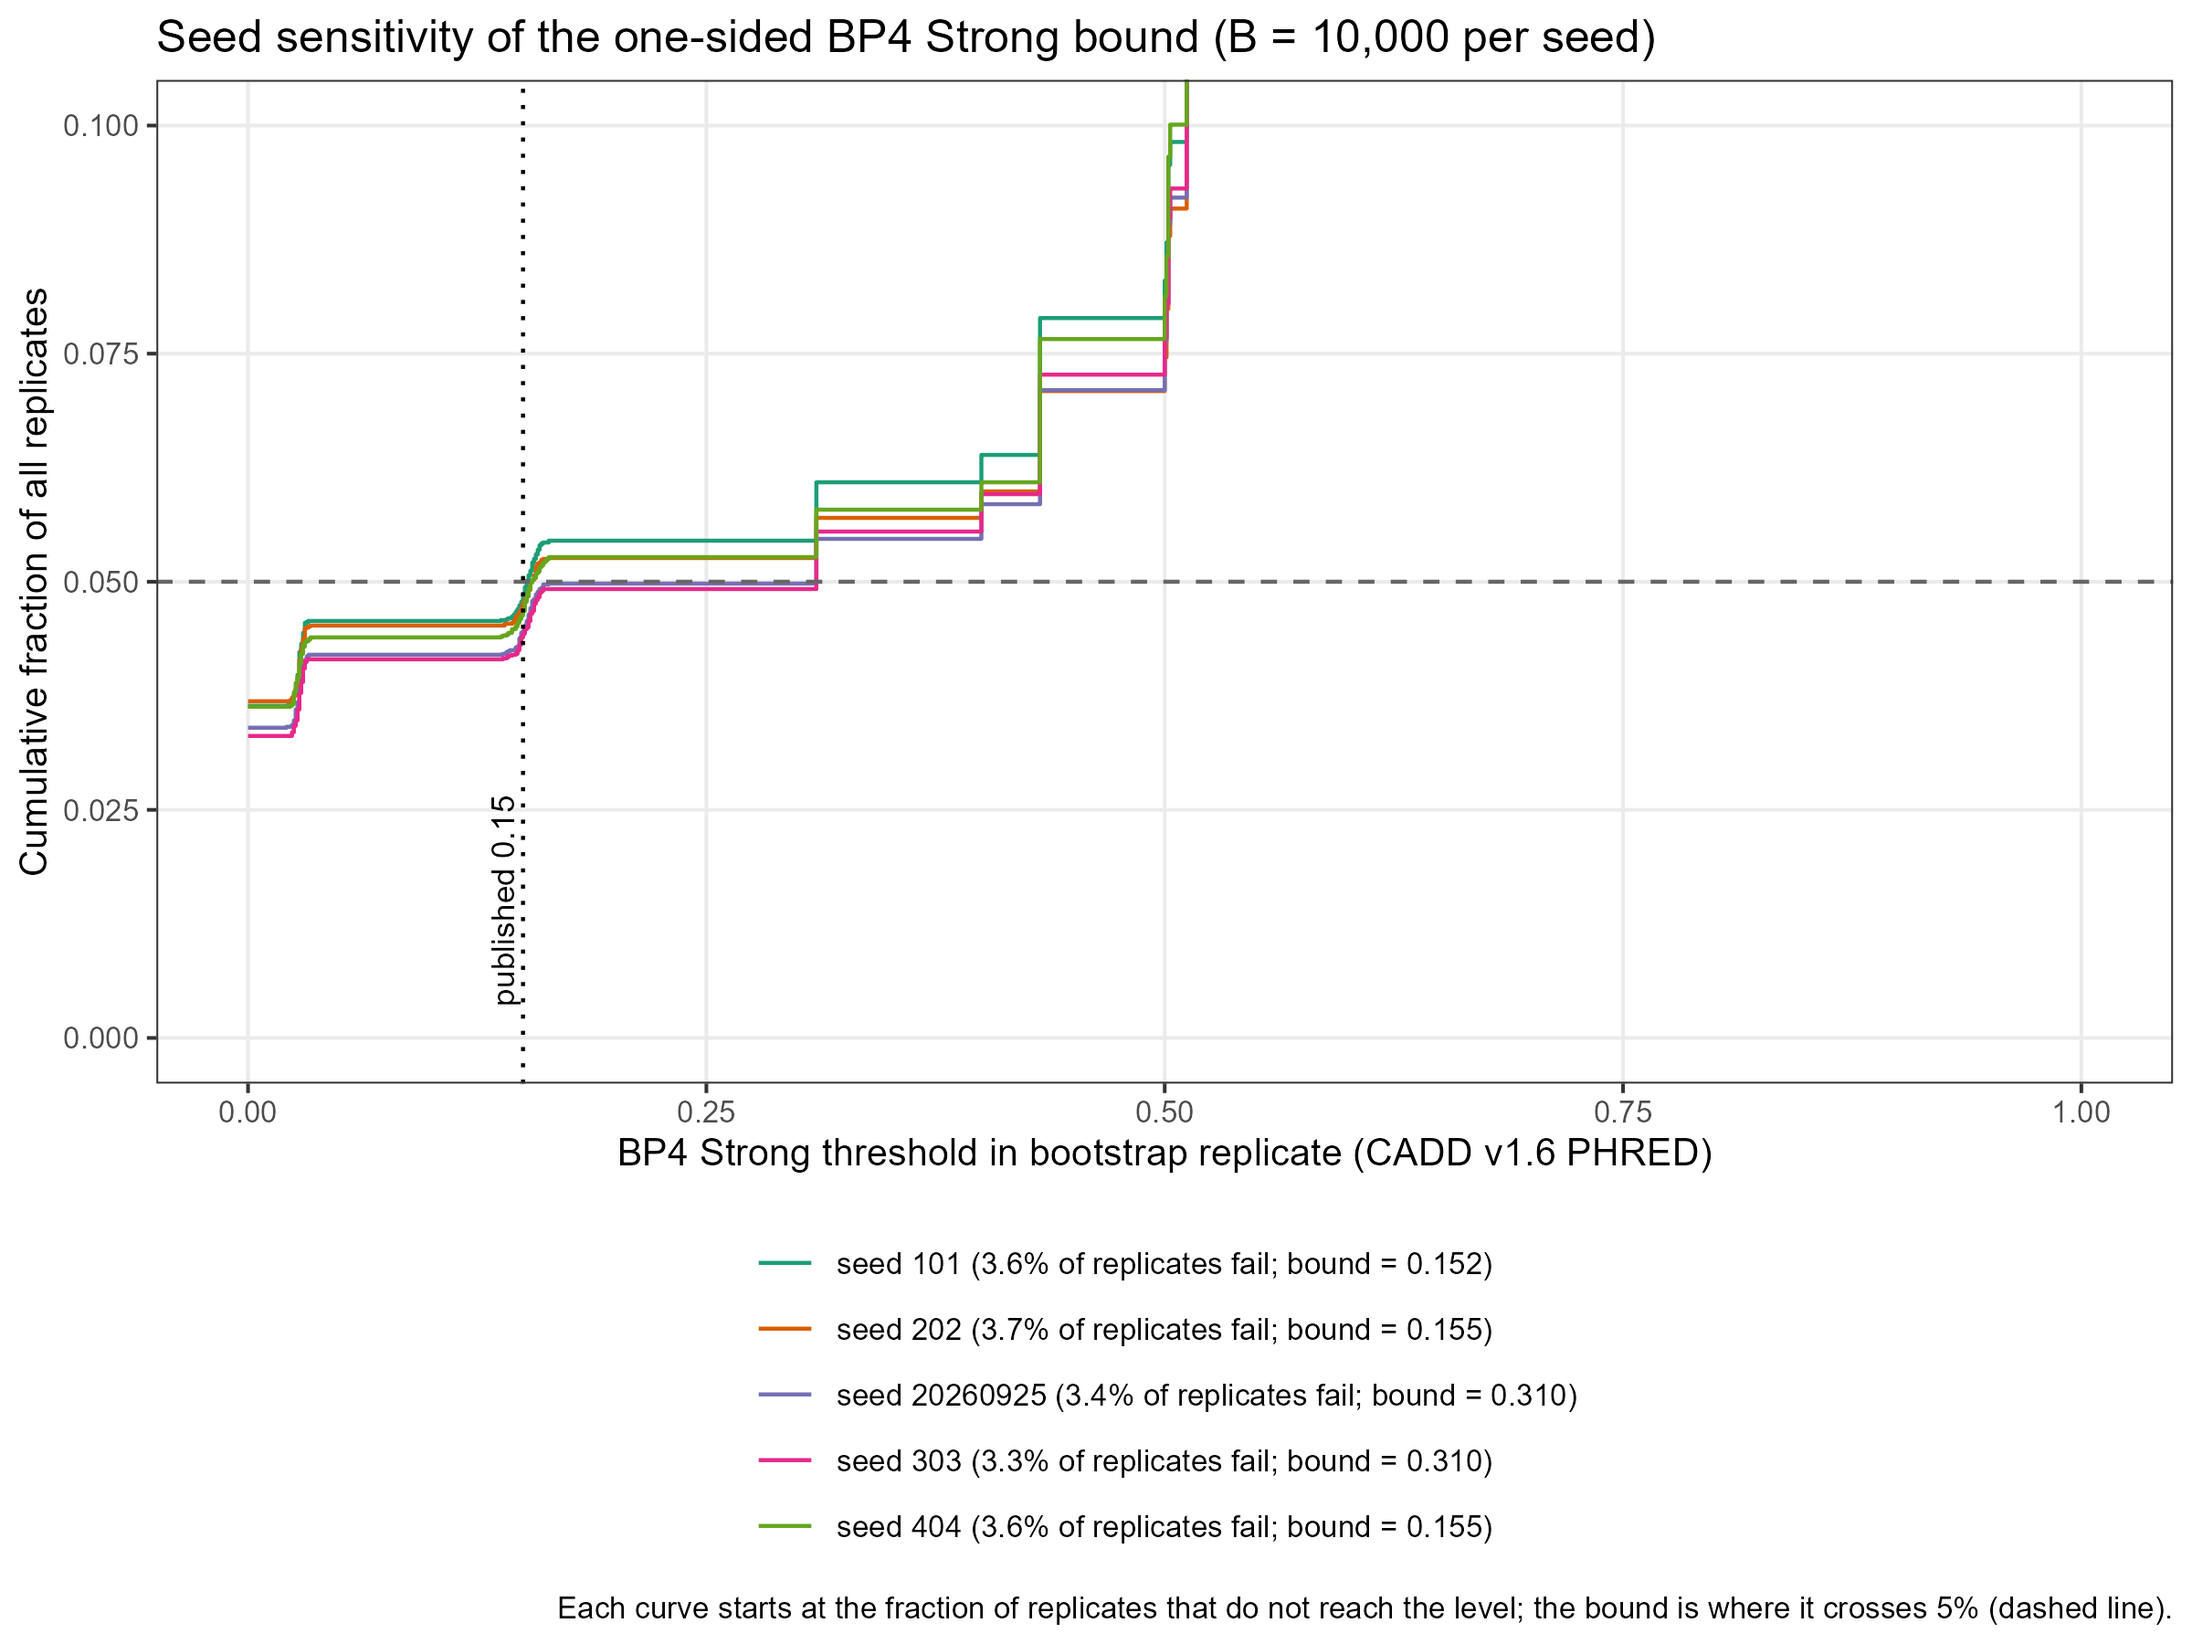
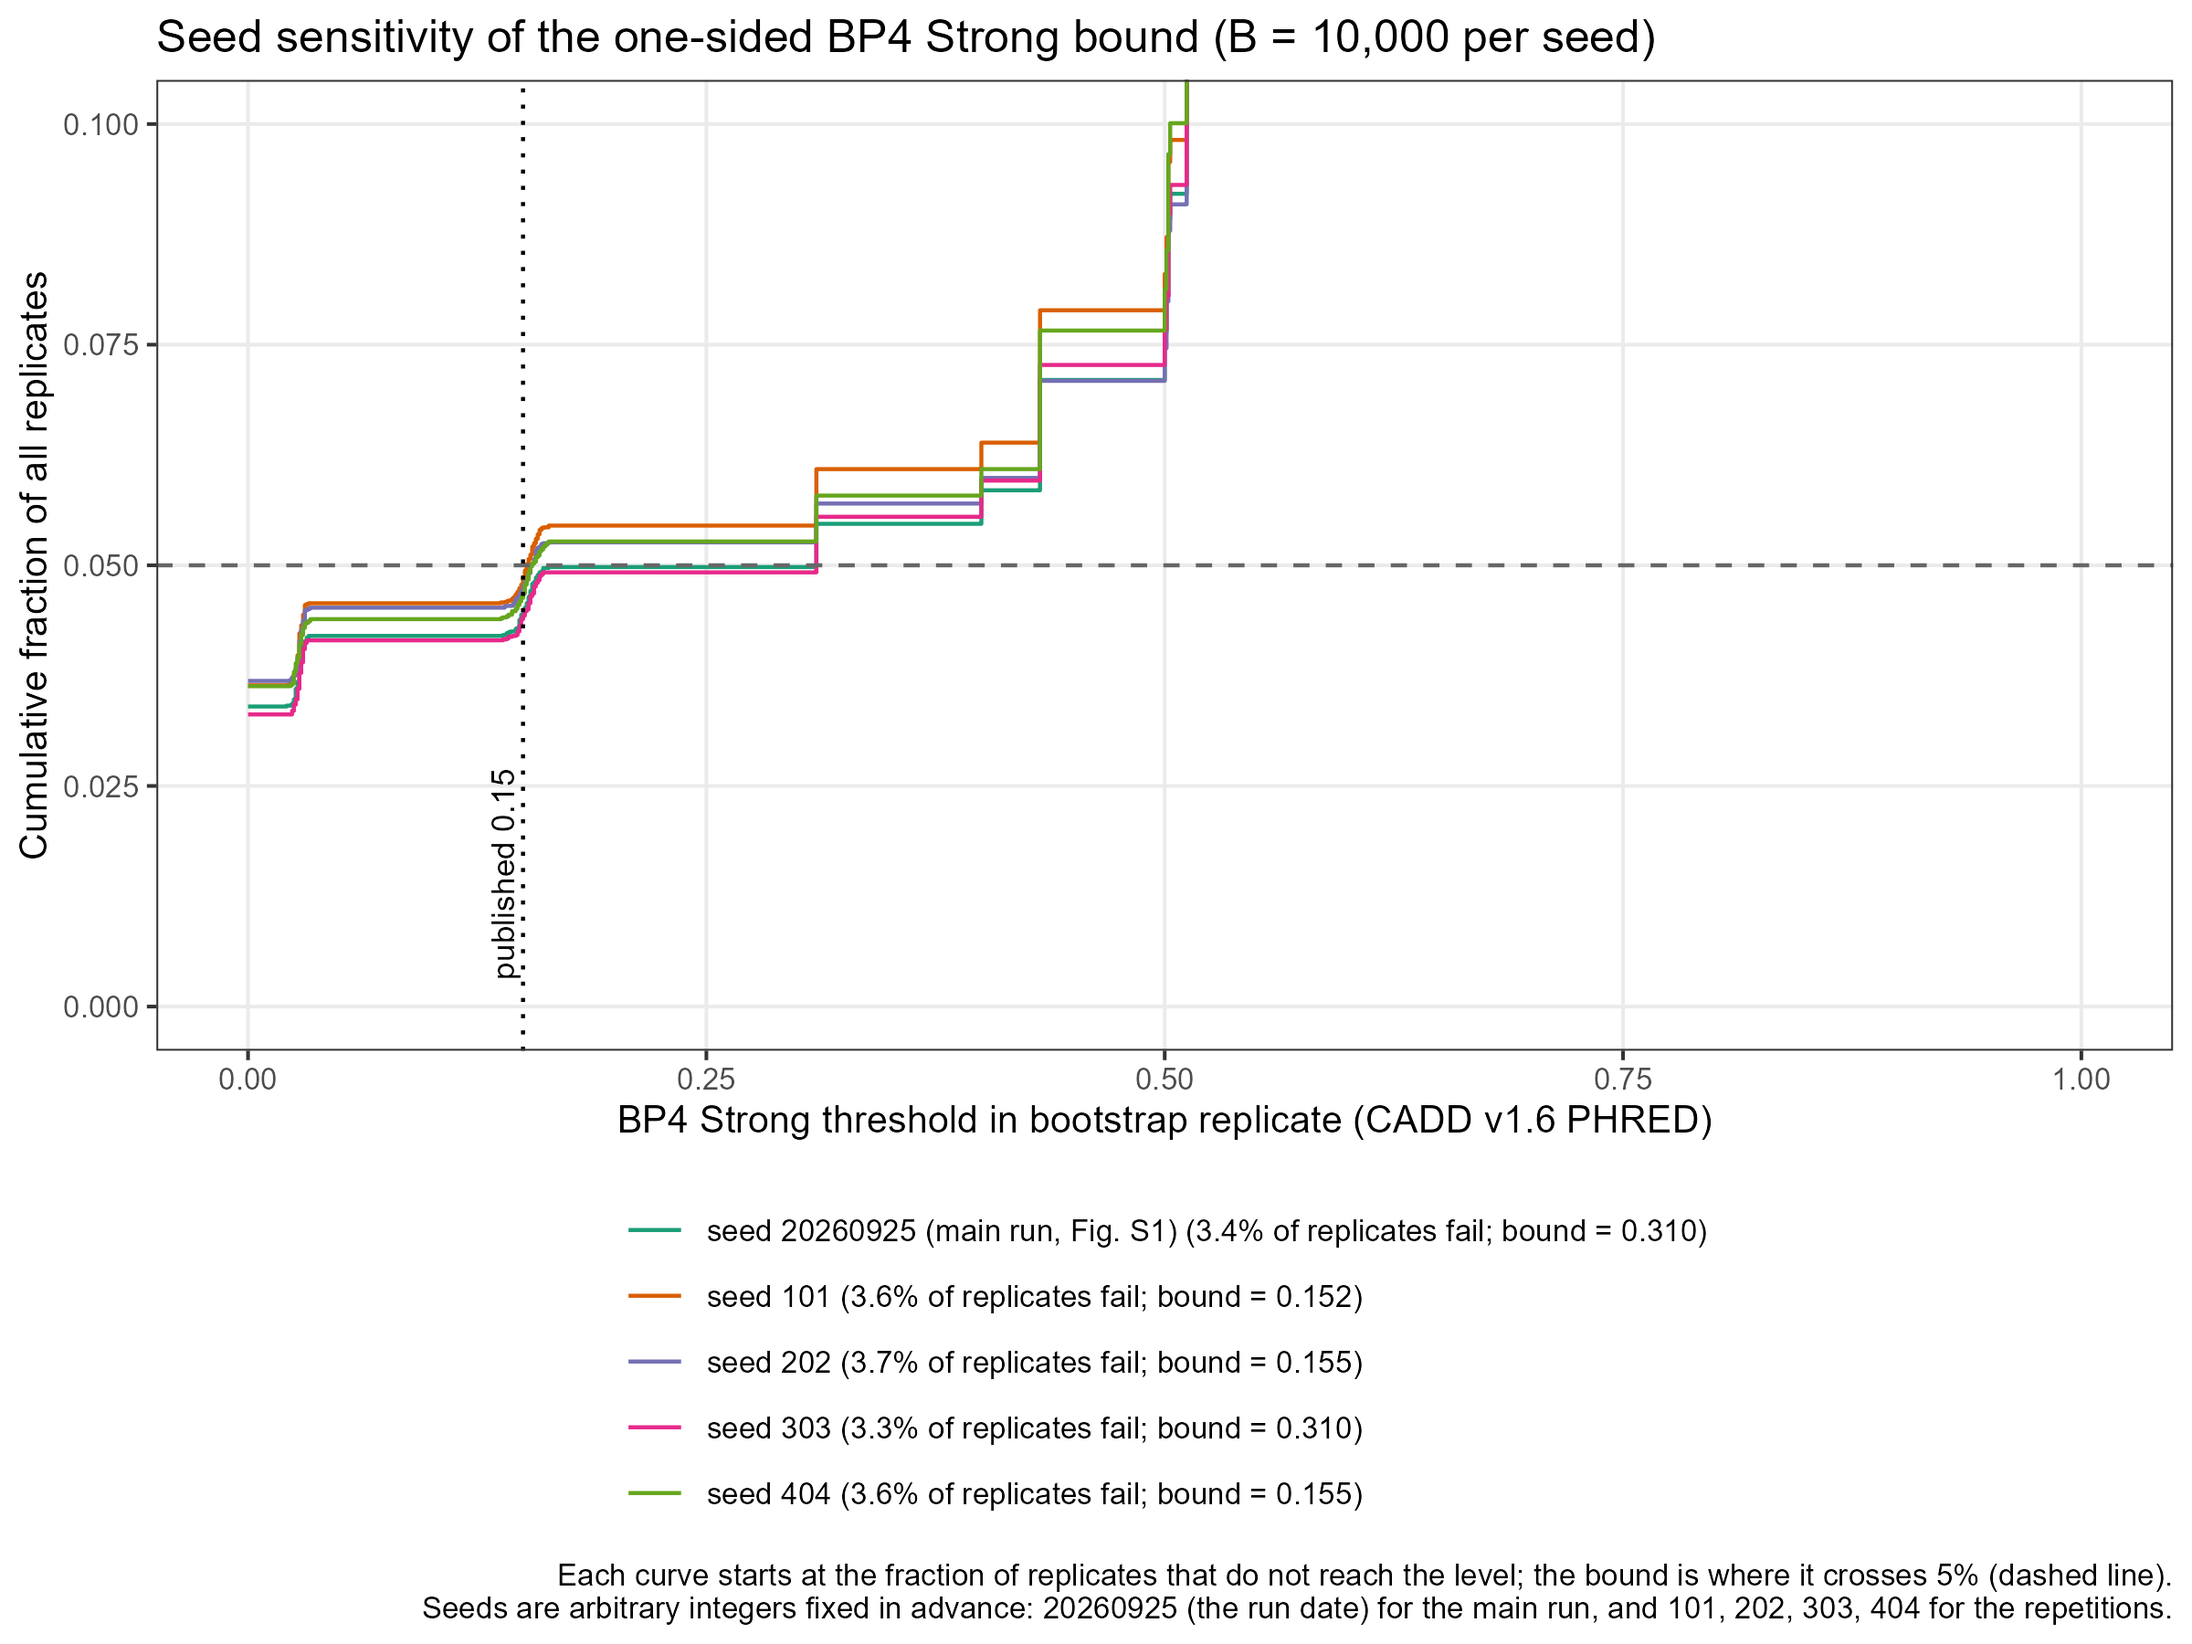
Fig S2: main-run seed labelled and listed first; seeds explained in caption and METHODS

diff --git a/METHODS.md b/METHODS.md
@@ -85,7 +85,9 @@ Bayesian framework of Tavtigian et al. (2018). The original MATLAB implementatio
   bound across replicates. A level is not reached if more than 5% of replicates fail to reach it.
 - **Reproducibility.** The original code seeds the random number generator from the clock
   (`rng('shuffle')`). We used a fixed L'Ecuyer-CMRG seed (20260925) so that the parallel bootstrap
-  is reproducible.
+  is reproducible. Seeds are arbitrary integers fixed before running: the main-run seed is the
+  run date (2026-09-25) written as a number, and the additional seeds of the sensitivity analysis
+  (section 3.2.1) are 101, 202, 303 and 404.
 
 The only implementation difference from the original code is computational: window counts are
 obtained by binary search on sorted vectors and vectorised across all thresholds. The arithmetic
